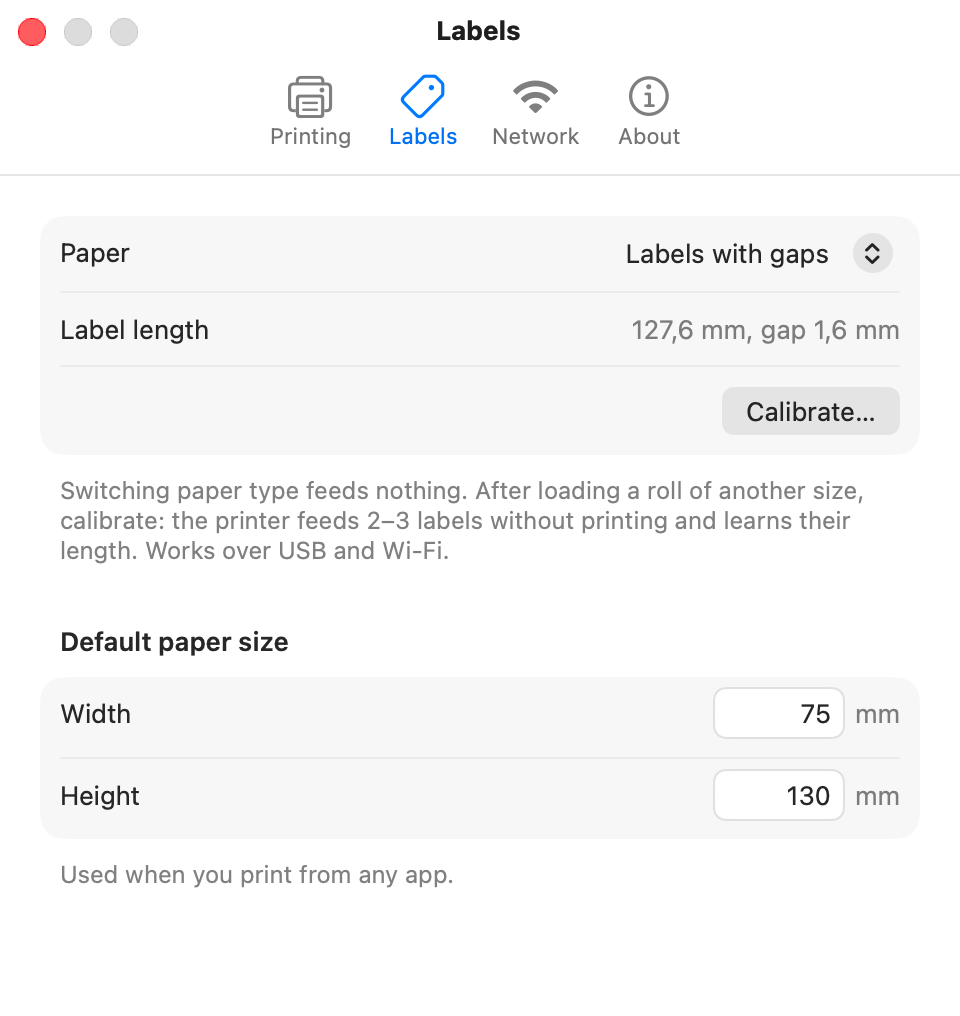
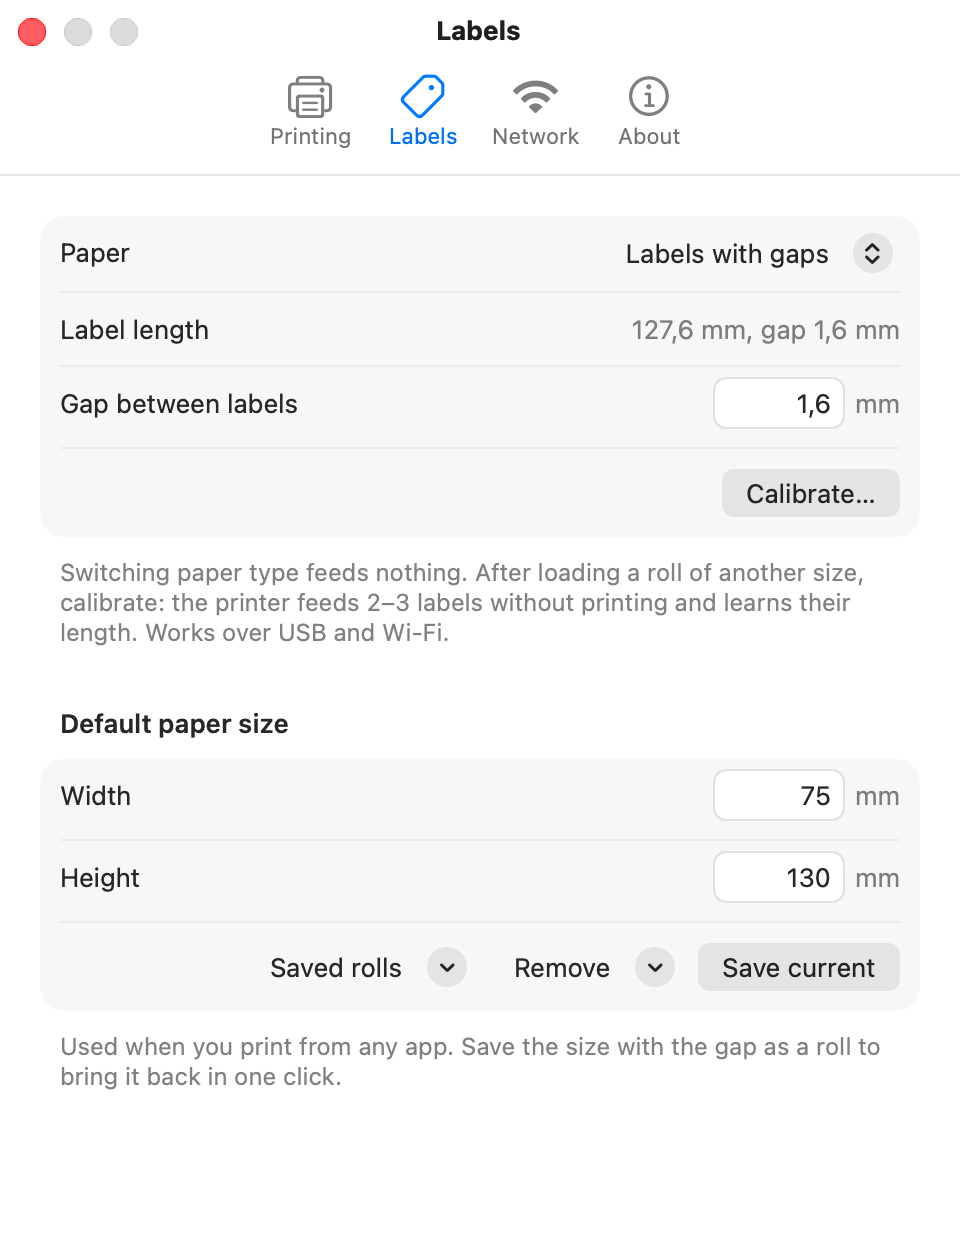
1.8: calibration survives printing (PPD follows sensor mode instead of the vendor filter's GAP 0,0); editable gap; saved rolls

diff --git a/Sources/XprinterSetup/SettingsView.swift b/Sources/XprinterSetup/SettingsView.swift
@@ -83,7 +83,7 @@ private struct LabelsTab: View {
     enum Paper: Hashable { case labels, continuous }
 
     var body: some View {
-        PrinterForm(height: 420) { c in
+        PrinterForm(height: 530) { c in
             Section {
                 Picker(selection: Binding(get: { c.sensor == .continuous ? Paper.continuous : .labels }, set: choose)) {
                     Text("Labels with gaps", bundle: .module).tag(Paper.labels)
@@ -93,6 +93,9 @@ private struct LabelsTab: View {
 
                 if c.sensor != .continuous {
                     LabeledContent { Text(measuredText(c)) } label: { Text("Label length", bundle: .module) }
+                    if c.sensor == .gap, let g = c.gapMM {
+                        mm("Gap between labels", g, 0.5...10) { printer.setGap($0) }
+                    }
                     HStack {
                         Spacer()
                         if printer.calibrating { ProgressView().controlSize(.small) }
@@ -112,10 +115,23 @@ private struct LabelsTab: View {
                 } else {
                     Text("Add the printer to this Mac first.", bundle: .module).foregroundStyle(.secondary)
                 }
+                if printer.labelSize != nil {
+                    HStack {
+                        Spacer()
+                        Menu { ForEach(printer.rolls) { r in Button(r.title) { printer.use(r) } } } label: { Text("Saved rolls", bundle: .module) }
+                            .disabled(printer.rolls.isEmpty).fixedSize()
+                        Menu {
+                            ForEach(printer.rolls) { r in Button(r.title) { printer.rolls.removeAll { $0 == r } } }
+                        } label: { Text("Remove", bundle: .module) }
+                            .disabled(printer.rolls.isEmpty).fixedSize()
+                        Button { printer.saveRoll() } label: { Text("Save current", bundle: .module) }
+                            .disabled(c.sensor != .gap)
+                    }
+                }
             } header: { Text("Default paper size", bundle: .module) }
               footer: {
                 VStack(alignment: .leading, spacing: 4) {
-                    Text("Used when you print from any app.", bundle: .module)
+                    Text("Used when you print from any app. Save the size with the gap as a roll to bring it back in one click.", bundle: .module)
                     if let e = printer.labelError { Text(e).foregroundStyle(.red) }
                 }
                 .font(.callout).foregroundStyle(.secondary)
@@ -134,9 +150,11 @@ private struct LabelsTab: View {
         switch paper {
         case .continuous:
             printer.apply(XprinterCommand.continuousPaper, shows: ["Sensor Mode": "CONTINUOUS(T)"])
+            printer.syncPaperType()
         case .labels:
             if let gap = c.gapDots, c.labelLengthMM ?? 0 > 0 {
                 printer.apply(XprinterCommand.gapLabels(gapDots: gap, offsetDots: c.gapOffsetDots), shows: ["Sensor Mode": "GAP"])
+                printer.syncPaperType()
             } else {
                 confirmCalibration = true
             }
@@ -283,7 +301,7 @@ private struct PrinterForm<Content: View>: View {
     }
 }
 
-private func mmText(_ v: Double) -> String { v.formatted(.number.precision(.fractionLength(0...1))) }
+func mmText(_ v: Double) -> String { v.formatted(.number.precision(.fractionLength(0...1))) }
 
 private func info(_ title: String.LocalizationValue, _ value: String?) -> some View {
     LabeledContent { Text(value ?? "—").textSelection(.enabled) } label: { Text(loc(title)) }

diff --git a/Sources/XprinterSetup/PrinterModel.swift b/Sources/XprinterSetup/PrinterModel.swift
@@ -52,6 +52,41 @@ final class PrinterModel: ObservableObject {
         }
     }
 
+    /// A roll the user saved: paper size and gap (mm).
+    struct Roll: Codable, Equatable, Identifiable {
+        var width: Double, height: Double, gap: Double
+        var id: String { "\(width)x\(height)/\(gap)" }
+        var title: String { "\(mmText(width)) × \(mmText(height)) mm, " + String(format: loc("gap %@ mm"), mmText(gap)) }
+    }
+    @Published var rolls: [Roll] = (UserDefaults.standard.data(forKey: "rolls").flatMap { try? JSONDecoder().decode([Roll].self, from: $0) }) ?? [] {
+        didSet { UserDefaults.standard.set(try? JSONEncoder().encode(rolls), forKey: "rolls") }
+    }
+
+    /// Gap between labels in mm: set on the printer without feeding, then kept for print jobs.
+    func setGap(_ mm: Double) {
+        guard let c = config, c.sensor == .gap else { return }
+        apply(XprinterCommand.gapLabels(gapDots: mm * 8, offsetDots: c.gapOffsetDots), shows: ["Gap Size": "\(Int((mm * 8).rounded()))"])
+        syncPaperType()
+    }
+
+    func saveRoll() {
+        guard let size = labelSize, let gap = config?.gapMM, config?.sensor == .gap else { return }
+        let roll = Roll(width: size.width, height: size.height, gap: gap)
+        if !rolls.contains(roll) { rolls.append(roll) }
+    }
+
+    func use(_ roll: Roll) {
+        setLabelSize(width: roll.width, height: roll.height)
+        setGap(roll.gap)
+    }
+
+    /// Makes print jobs keep the sensor mode the printer is in now (see CUPS.setPaperType).
+    func syncPaperType() {
+        guard !Demo.isOn, let c = config, c.sensor != .blackMark else { return }
+        let gap = c.sensor == .gap ? (c.gapMM ?? 1) : nil
+        Task { try? await Self.background { try CUPS.setPaperType(gapMM: gap) } }
+    }
+
     /// How to reach the printer; "auto" prefers USB and falls back to Wi-Fi. Saved between launches.
     @Published var preference: LinkPreference = LinkPreference(rawValue: UserDefaults.standard.string(forKey: "link") ?? "") ?? .auto {
         didSet { UserDefaults.standard.set(preference.rawValue, forKey: "link"); link = nil; recheck = true }
@@ -313,6 +348,7 @@ final class PrinterModel: ObservableObject {
                     try? await Task.sleep(nanoseconds: 8_000_000_000)  // shortcut: fixed wait, no status over Wi-Fi
                 }
                 if let fresh = await Self.readConfig(via: link) { config = fresh }
+                syncPaperType()
             } catch {
                 settingsError = error.localizedDescription
             }

diff --git a/Sources/XprinterKit/LabelSize.swift b/Sources/XprinterKit/LabelSize.swift
@@ -62,12 +62,29 @@ extension CUPS {
 
     /// Makes `width` x `height` mm the default paper of every Xprinter printer in macOS.
     public static func setLabelSize(width: Double, height: Double) throws {
+        try editPPDs { LabelSize.apply(ppd: $0, width: width, height: height) }
+    }
+
+    /// The vendor filter sends `GAP 0,0` with every job unless the PPD says otherwise, and that switches the printer
+    /// to continuous paper and throws the calibration away. `gapMM` nil = continuous paper, else labels with that gap.
+    public static func setPaperType(gapMM: Double?) throws {
+        let type = gapMM == nil ? "Continue" : "LabelGaps"
+        let gap = Int(min(max(gapMM ?? 0, 1), 10).rounded())  // the PPD offers whole mm; GAP 0 would mean continuous
+        try editPPDs { ppd in
+            ppd.components(separatedBy: "\n").map {
+                $0.hasPrefix("*DefaultPaperType:") ? "*DefaultPaperType: \(type)"
+                : $0.hasPrefix("*DefaultGapsHeight:") ? "*DefaultGapsHeight: \(gap)" : $0
+            }.joined(separator: "\n")
+        }
+    }
+
+    private static func editPPDs(_ edit: (String) -> String) throws {
         for q in xprinterQueues() {
             let path = "/etc/cups/ppd/\(q.name).ppd"
             guard let ppd = try? String(contentsOfFile: path, encoding: .isoLatin1) else { continue }
             let tmp = FileManager.default.temporaryDirectory.appendingPathComponent("\(q.name)-\(UUID().uuidString).ppd")
             defer { try? FileManager.default.removeItem(at: tmp) }
-            try LabelSize.apply(ppd: ppd, width: width, height: height).write(to: tmp, atomically: true, encoding: .isoLatin1)
+            try edit(ppd).write(to: tmp, atomically: true, encoding: .isoLatin1)
             try run("/usr/sbin/lpadmin", ["-p", q.name, "-P", tmp.path])
         }
     }

diff --git a/README.ru.md b/README.ru.md
@@ -19,7 +19,7 @@
 - **Подключает принтер к вашему Wi-Fi одной кнопкой.** Выберите сеть (показаны только сети 2,4 ГГц — 5 ГГц принтер не поддерживает), введите пароль, нажмите «Подключить». Программа отправит настройки по USB, узнает у принтера новый адрес и сама добавит его в macOS как Wi-Fi принтер. Без тестовых страниц.
 - **Узнаёт уже настроенный принтер** и добавляет его на другой Mac — найдёт в сети или по адресу.
 - **Настройки принтера** (⌘,) по вкладкам, как в программах Apple — по USB или по Wi-Fi без кабеля: плотность, скорость, поворот на 180°, зеркальная печать, повтор после ошибки, положение на этикетке (в мм).
-- **Этикетки:** этикетки с промежутком или непрерывная лента (переключение ничего не прогоняет), **калибровка** — принтер прогонит 2–3 чистые этикетки и запомнит их длину — и размер по умолчанию для всех программ.
+- **Этикетки:** этикетки с промежутком или непрерывная лента (переключение ничего не прогоняет), **калибровка** — принтер прогонит 2–3 чистые этикетки и запомнит их длину — промежуток между этикетками (можно править), сохранённые рулоны (размер + промежуток, возвращаются одним нажатием) и размер по умолчанию для всех программ.
 - **Состояние принтера:** открыта крышка, закончились этикетки, замятие.
 - **Лечение без кнопки питания:** «Переподключить Wi-Fi» и «Перезапустить принтер» (см. [Известное ограничение](#известное-ограничение-принтера-wi-fi-работает-около-30-минут)).
 - **Собственная сеть принтера:** посмотреть и сменить пароль встроенной сети принтера (заводской — `12345678`).
@@ -62,7 +62,9 @@
 
 **Другой Mac?** Установите на нём драйвер и откройте программу. Она найдёт принтер в сети или попросит его адрес (он есть в программе на первом Mac или в строке `STA IP` на тестовой странице) — затем «Добавить на этот Mac».
 
-**Новый рулон?** «Настройки принтера → Этикетки → Откалибровать…» (по USB или по Wi‑Fi; по Wi‑Fi программа ждёт 10 с, а не следит за состоянием принтера). **Непрерывная лента?** «Настройки принтера → Этикетки → Бумага → Непрерывная лента»; вернуться к этикеткам можно так же — мгновенно и без прогона бумаги, принтер помнит длину этикетки. Затем укажите ширину и высоту этикетки — это станет размером бумаги по умолчанию, и программы будут сразу печатать в нём.
+**Новый рулон?** «Настройки принтера → Этикетки → Откалибровать…» (по USB или по Wi‑Fi; по Wi‑Fi программа ждёт 10 с, а не следит за состоянием принтера). **Непрерывная лента?** «Настройки принтера → Этикетки → Бумага → Непрерывная лента»; вернуться к этикеткам можно так же — мгновенно и без прогона бумаги, принтер помнит длину этикетки. Затем укажите ширину и высоту этикетки — это станет размером бумаги по умолчанию, и программы будут сразу печатать в нём. «Сохранить текущий» запоминает размер и промежуток как рулон.
+
+**Печать съезжает от этикетки к этикетке?** Драйвер производителя шлёт `GAP 0,0` с каждым заданием, и принтер переходит в режим непрерывной ленты. Теперь программа записывает в PPD «этикетки с измеренным промежутком» при калибровке и при смене типа бумаги, поэтому калибровка не слетает при печати.
 
 <p align="center">
   <img src="Screenshots/settings-printing-ru.png" width="200" alt="Вкладка «Печать»">

diff --git a/README.md b/README.md
@@ -19,7 +19,7 @@
 - **Connects the printer to your Wi-Fi in one click.** Pick a network (only 2.4 GHz ones are listed — the printer can't use 5 GHz), type the password, press **Connect**. The app sends the settings over USB, asks the printer for its new address and adds it to macOS as a Wi-Fi printer. No test pages.
 - **Recognizes a printer that is already set up**, and adds it to another Mac — found on the network, or by its address.
 - **Printer Settings** (⌘,), in tabs like Apple's own apps — over USB, or over Wi-Fi without the cable: darkness, speed, rotate 180°, mirror, reprint after an error, position on the label (in mm).
-- **Labels:** labels with gaps or continuous paper (switching feeds nothing), **Calibrate** — the printer feeds 2–3 blank labels and learns their length — and the default label size for every app.
+- **Labels:** labels with gaps or continuous paper (switching feeds nothing), **Calibrate** — the printer feeds 2–3 blank labels and learns their length — the gap between labels (editable), saved rolls (size + gap, one click to bring back), and the default label size for every app.
 - **Printer status:** cover open, out of labels, paper jam.
 - **Fixes without the power button:** **Reconnect Wi-Fi** and **Restart Printer** (see [Known limitation](#known-printer-limitation-wi-fi-stays-healthy-for-about-30-minutes)).
 - **Printer's own network:** see and change the password of the printer's built-in Wi-Fi (factory password `12345678`).
@@ -56,7 +56,9 @@ Requires macOS 13 or later.
 
 **Another Mac?** Install the driver and open the app there. It finds the printer on the network, or asks for its address (shown in the app on the first Mac, or as `STA IP` on the self-test page), then **Add to This Mac**.
 
-**New roll?** Printer Settings → Labels → **Calibrate…** (USB or Wi-Fi; over Wi-Fi the app waits a fixed 10 s instead of watching the status). **Continuous paper?** Printer Settings → Labels → Paper → *Continuous paper*; switching back to labels is instant and feeds nothing, the printer remembers the label length. Then type the label width and height: that becomes the default paper size, so apps start with it.
+**New roll?** Printer Settings → Labels → **Calibrate…** (USB or Wi-Fi; over Wi-Fi the app waits a fixed 10 s instead of watching the status). **Continuous paper?** Printer Settings → Labels → Paper → *Continuous paper*; switching back to labels is instant and feeds nothing, the printer remembers the label length. Then type the label width and height: that becomes the default paper size, so apps start with it. **Save current** keeps size and gap as a roll.
+
+**Print drifts label by label?** The vendor driver sends `GAP 0,0` with every job, which switches the printer to continuous paper. The app now sets the PPD to labels with the measured gap whenever you calibrate or switch paper type, so calibration survives printing.
 
 <p align="center">
   <img src="Screenshots/settings-printing-en.png" width="200" alt="Printing tab">
